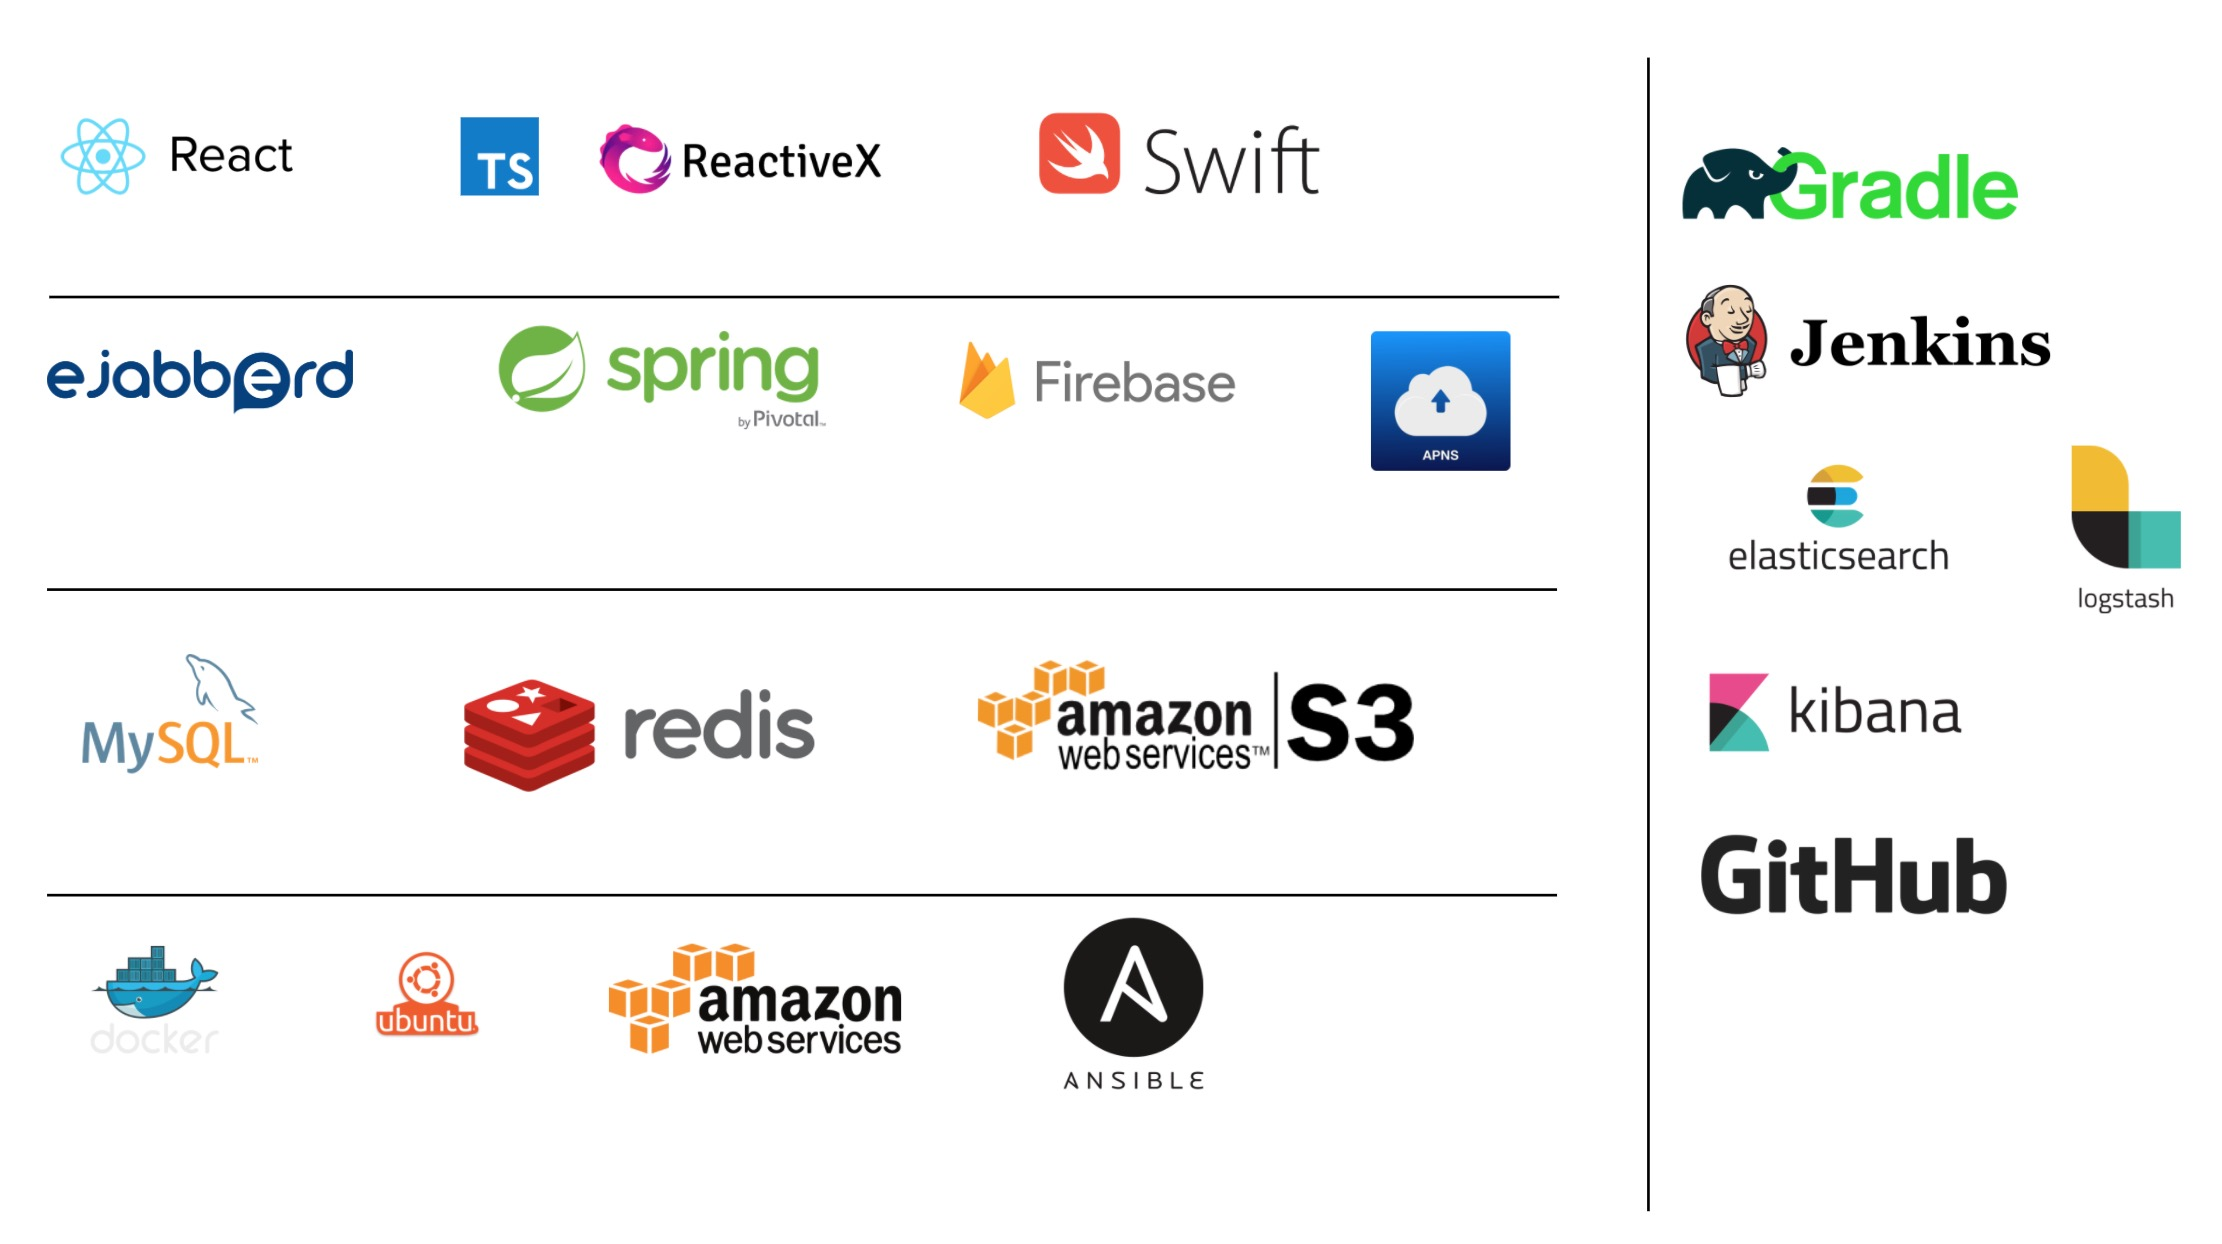
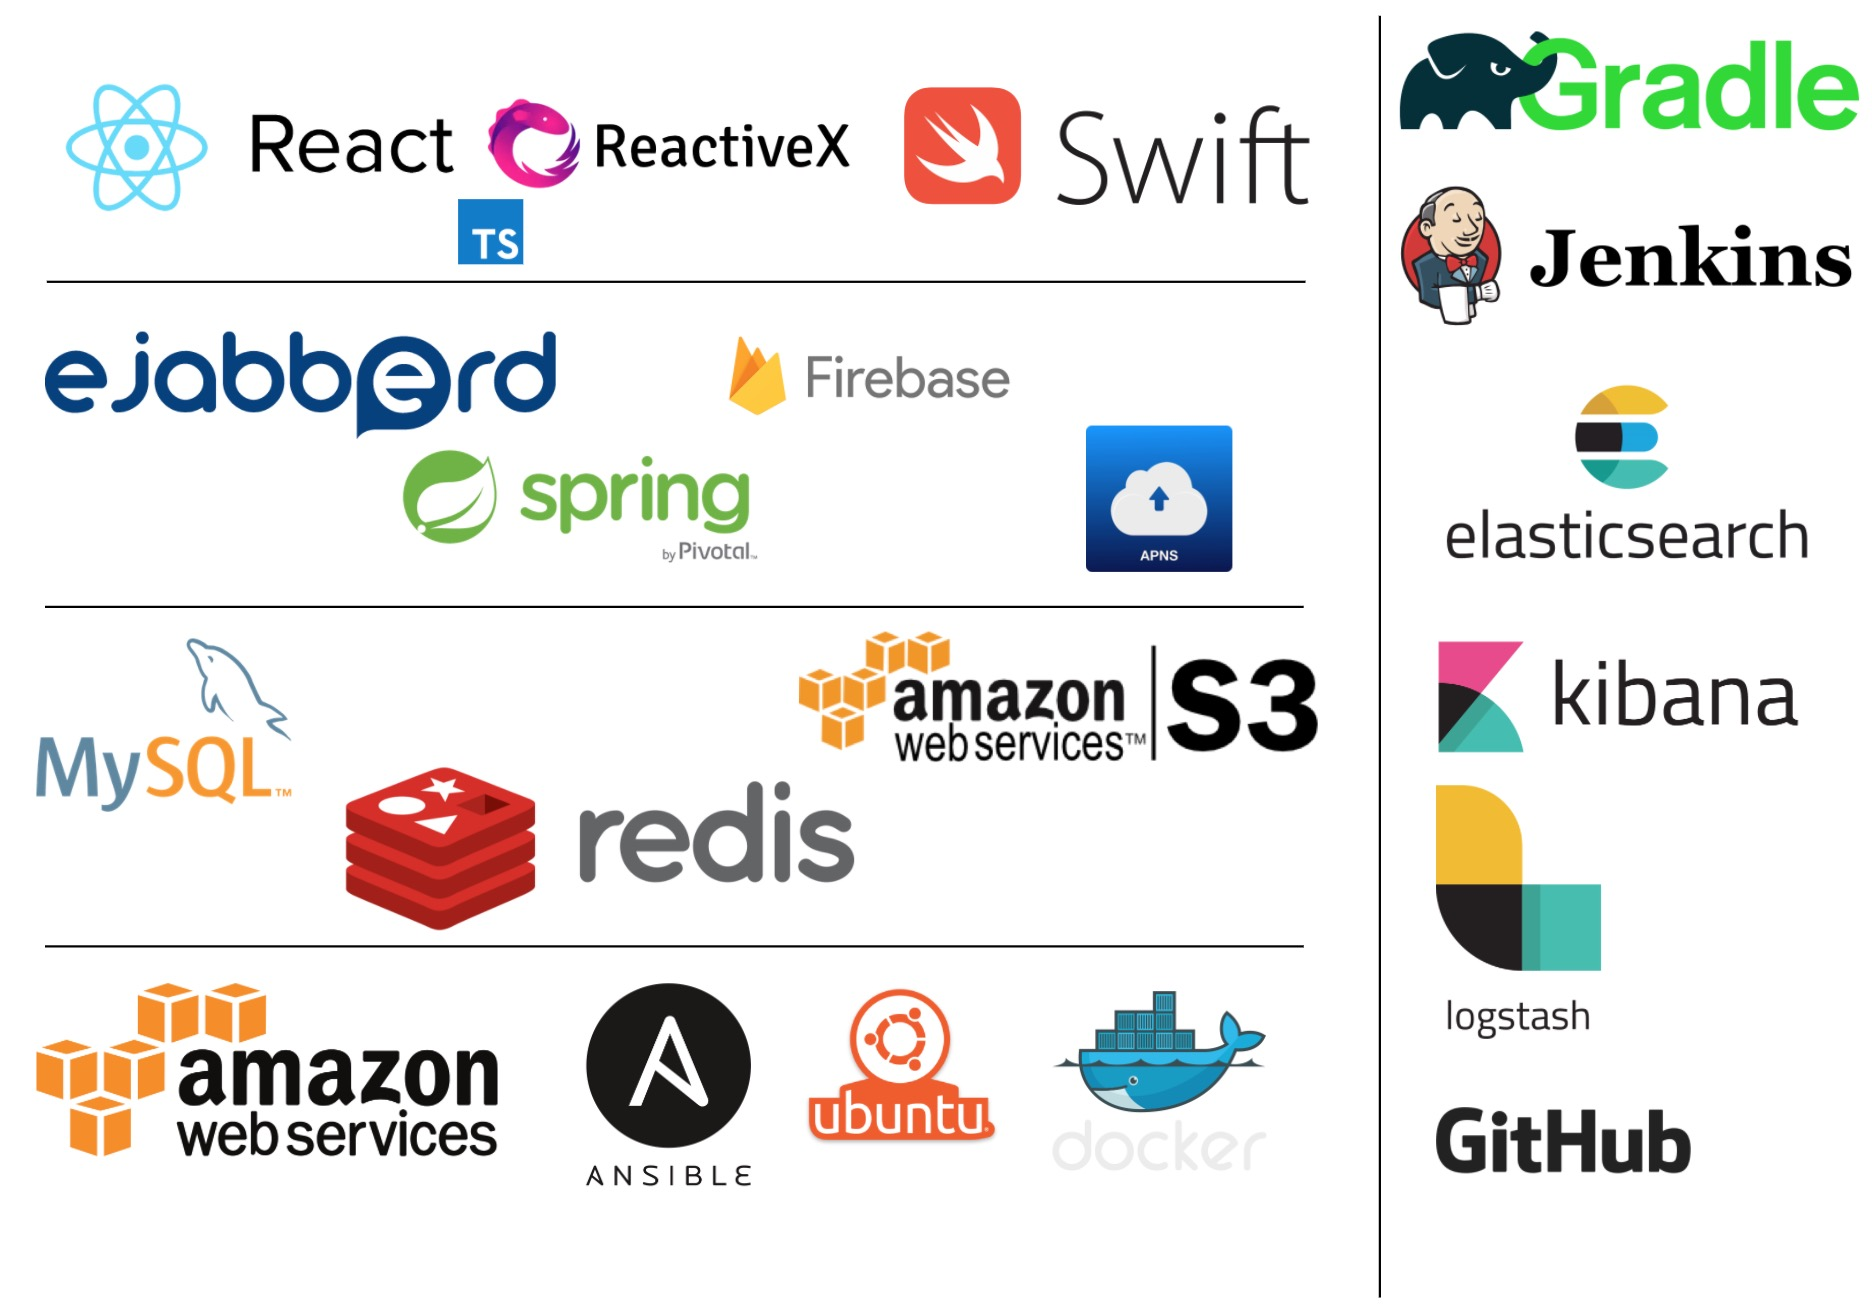
Add proper techstack image

Changed region(s): [[0.0, 0.0, 1.0, 0.9775]]

diff --git a/index.html b/index.html
@@ -106,7 +106,7 @@ URL: https://code.google.com/p/io-2012-slides
     <article class="">
       <ul>
         <li>A natural extension for KASKUS communities</li>
-        <li>Chat groups of KASKUS communities <b><u>outside</u></b> of KASKUS</li>
+        <li>Keep KASKUS communities <b><u>inside</u></b> KASKUS</li>
       </ul>
     </article>
     <article class="text-center">
@@ -170,8 +170,8 @@ URL: https://code.google.com/p/io-2012-slides
     <hgroup>
       <h2>Tech Stack</h2>
     </hgroup>
-    <article class="text-center">
-      <img class="reflect" src="images/techstack.jpg">
+    <article class="no-margin-top text-center">
+      <img class="reflect" src="images/techstack2.png">
     </article>
   </slide>
 
